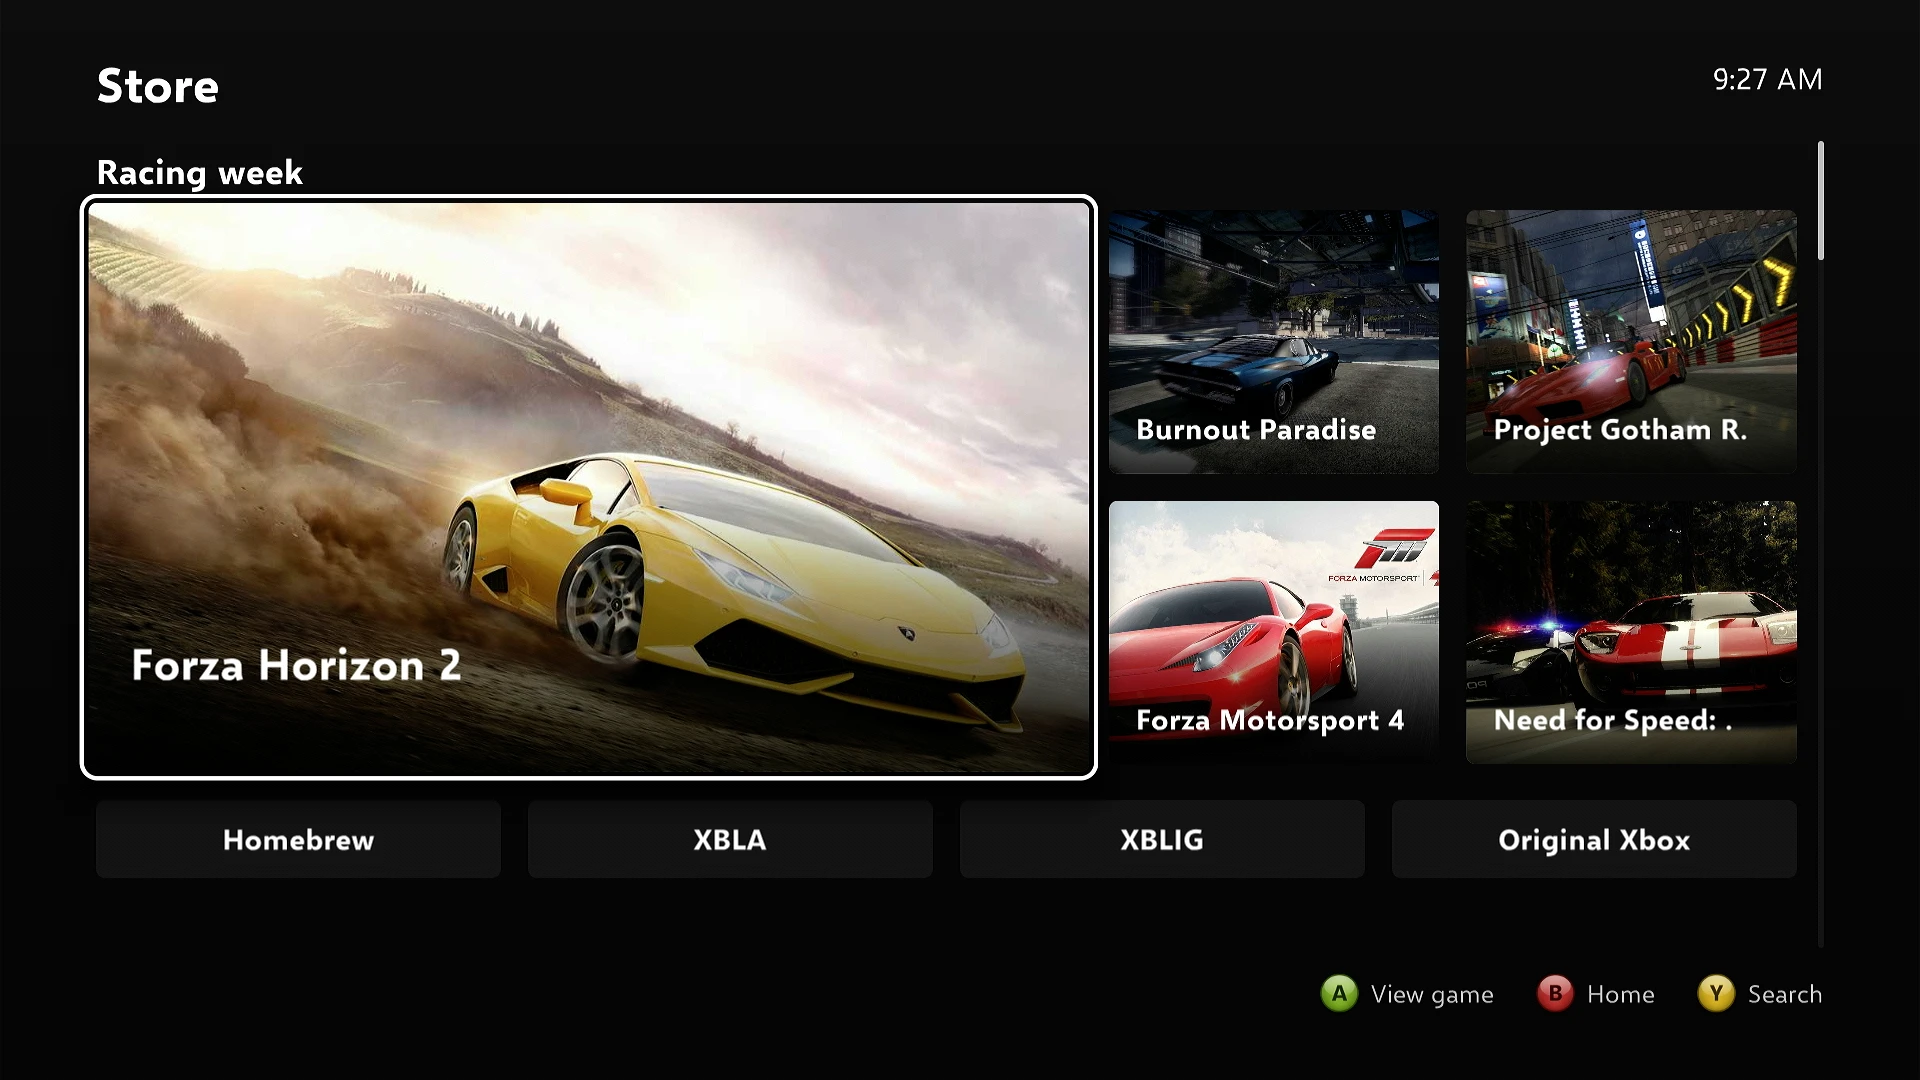
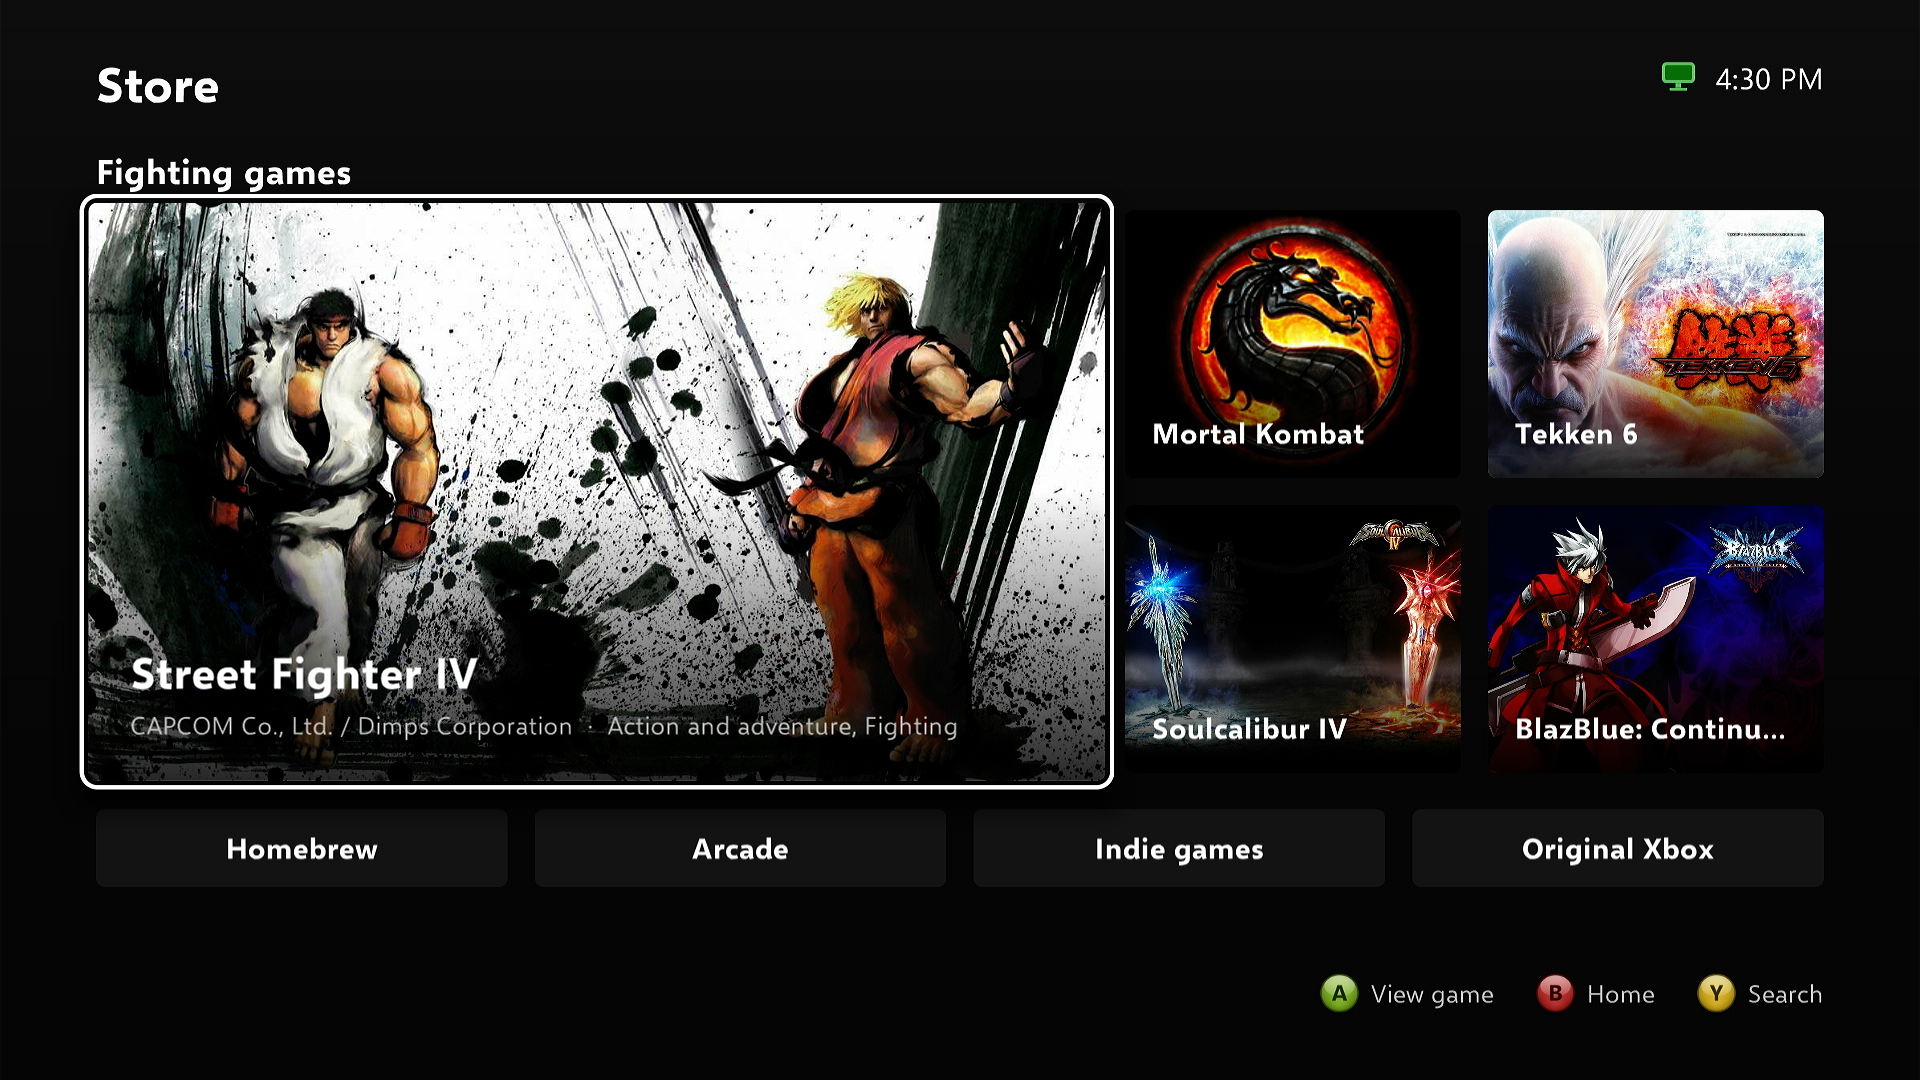
README: new screenshots, on 0.22.1-beta
All nine of the console's, taken again at 1920x1080: Home, Games with
its filters, the Store, its collections and publishers, Halo 3's page
and DLC, Settings (the PC's name and the console's address blurred),
the Queue downloading through the PC helper, and an arcade game
installing. Captions follow what they now show.

diff --git a/README.md b/README.md
@@ -79,22 +79,22 @@ Omni360 is a store and a library in one app on the console.
 <table>
   <tr>
     <td width="50%"><img src="docs/screenshots/home.png" alt="Home: the games played most recently as a row of covers, over Halo 3's wallpaper"><br><sub><b>Home</b>: what you played last, the disc in the drive first, under its own wallpaper.</sub></td>
-    <td width="50%"><img src="docs/screenshots/library.png" alt="Games: installed games as a grid of covers"><br><sub><b>Games</b>: every installed game, Xbox 360 and Original Xbox, with the disc in the drive marked.</sub></td>
+    <td width="50%"><img src="docs/screenshots/library.png" alt="Games: installed games as a grid of covers, with All games, Xbox 360, Original Xbox, Arcade and Indie games filters along the top"><br><sub><b>Games</b>: every installed game, Xbox 360, Original Xbox, Arcade and indie, with a filter for each.</sub></td>
   </tr>
   <tr>
-    <td width="50%"><img src="docs/screenshots/store.png" alt="The Store: this week's featured games and the Homebrew, XBLA, XBLIG and Original Xbox buttons"><br><sub><b>Store</b>: this week's featured games, then Homebrew, XBLA, XBLIG and Original Xbox.</sub></td>
+    <td width="50%"><img src="docs/screenshots/store.png" alt="The Store: this week's featured fighting games and the Homebrew, Arcade, Indie games and Original Xbox buttons"><br><sub><b>Store</b>: this week's featured games, then Homebrew, Arcade, Indie games and Original Xbox.</sub></td>
     <td width="50%"><img src="docs/screenshots/360-game-details.png" alt="Halo 3's page: description, ratings, screenshots and more like this"><br><sub><b>A game's page</b>: description, ratings, screenshots, its DLC and its title updates.</sub></td>
   </tr>
   <tr>
-    <td width="50%"><img src="docs/screenshots/dlc.png" alt="Choosing a Rock Band DLC pack"><br><sub><b>DLC</b>: find the packs for any game and pick the ones you want.</sub></td>
-    <td width="50%"><img src="docs/screenshots/settings.png" alt="Settings: the folders games, apps, homebrew and emulators live in"><br><sub><b>Settings</b>: the folders your games, apps, homebrew and emulators live in, your Internet Archive sign-in and updates.</sub></td>
+    <td width="50%"><img src="docs/screenshots/dlc.png" alt="Choosing a Halo 3 DLC pack from Internet Archive"><br><sub><b>DLC</b>: find the packs for any game and pick the ones you want.</sub></td>
+    <td width="50%"><img src="docs/screenshots/settings.png" alt="Settings: Internet Archive sign-in, the PC helper, disc installs, sign-in at start, the clock and the FTP server"><br><sub><b>Settings</b>: your Internet Archive sign-in, the PC helper, disc installs and more, with your library's folders and updates a section away.</sub></td>
   </tr>
   <tr>
-    <td width="50%"><img src="docs/screenshots/queue.png" alt="The Queue: Grand Theft Auto V waiting while an arcade game downloads"><br><sub><b>Queue</b>: everything downloads and installs in the background.</sub></td>
-    <td width="50%"><img src="docs/screenshots/store-popular.png" alt="The Store's A to Z, Popular and Top rated rows"><br><sub><b>Browse</b>: A to Z, or rows of Popular, Top rated and every genre.</sub></td>
+    <td width="50%"><img src="docs/screenshots/queue.png" alt="The Queue: Castlevania: Mirror of Fate HD downloading through the PC helper, CastleStorm waiting, and the games installed recently above"><br><sub><b>Queue</b>: everything downloads and installs in the background.</sub></td>
+    <td width="50%"><img src="docs/screenshots/store-popular.png" alt="The Store's Collections and Publishers rows"><br><sub><b>Browse</b>: collections and publishers, A to Z, or rows of Popular, Top rated and every genre.</sub></td>
   </tr>
   <tr>
-    <td width="50%"><img src="docs/screenshots/xbla-game-details.png" alt="Alan Wake's American Nightmare installing"><br><sub><b>Xbox Live Arcade</b>: arcade games get the same pages, and show their progress as they install.</sub></td>
+    <td width="50%"><img src="docs/screenshots/xbla-game-details.png" alt="Castlevania: Mirror of Fate HD installing, 17%"><br><sub><b>Xbox Live Arcade</b>: arcade games get the same pages, and show their progress as they install.</sub></td>
     <td width="50%"></td>
   </tr>
   <tr>
